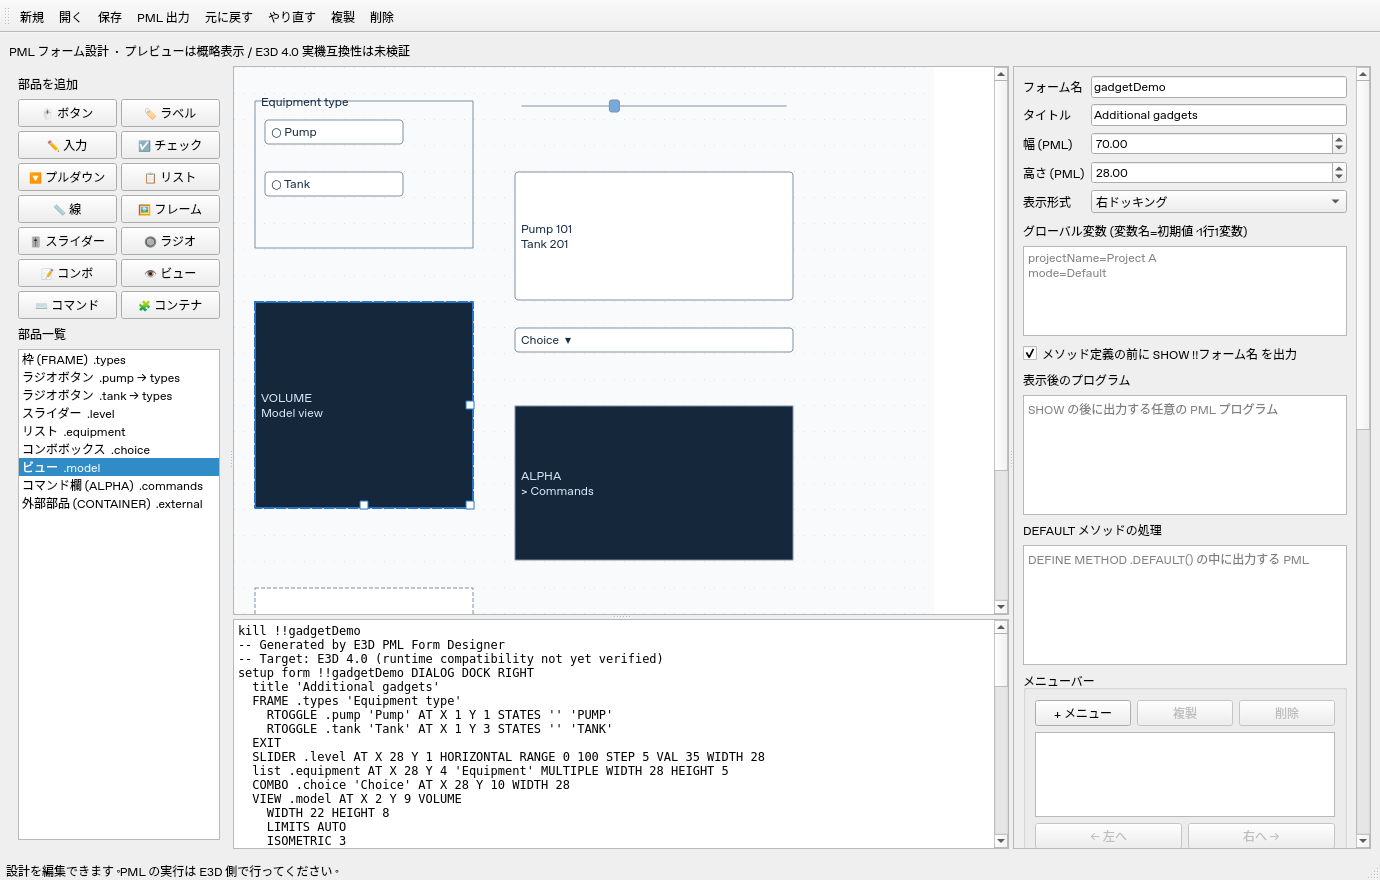
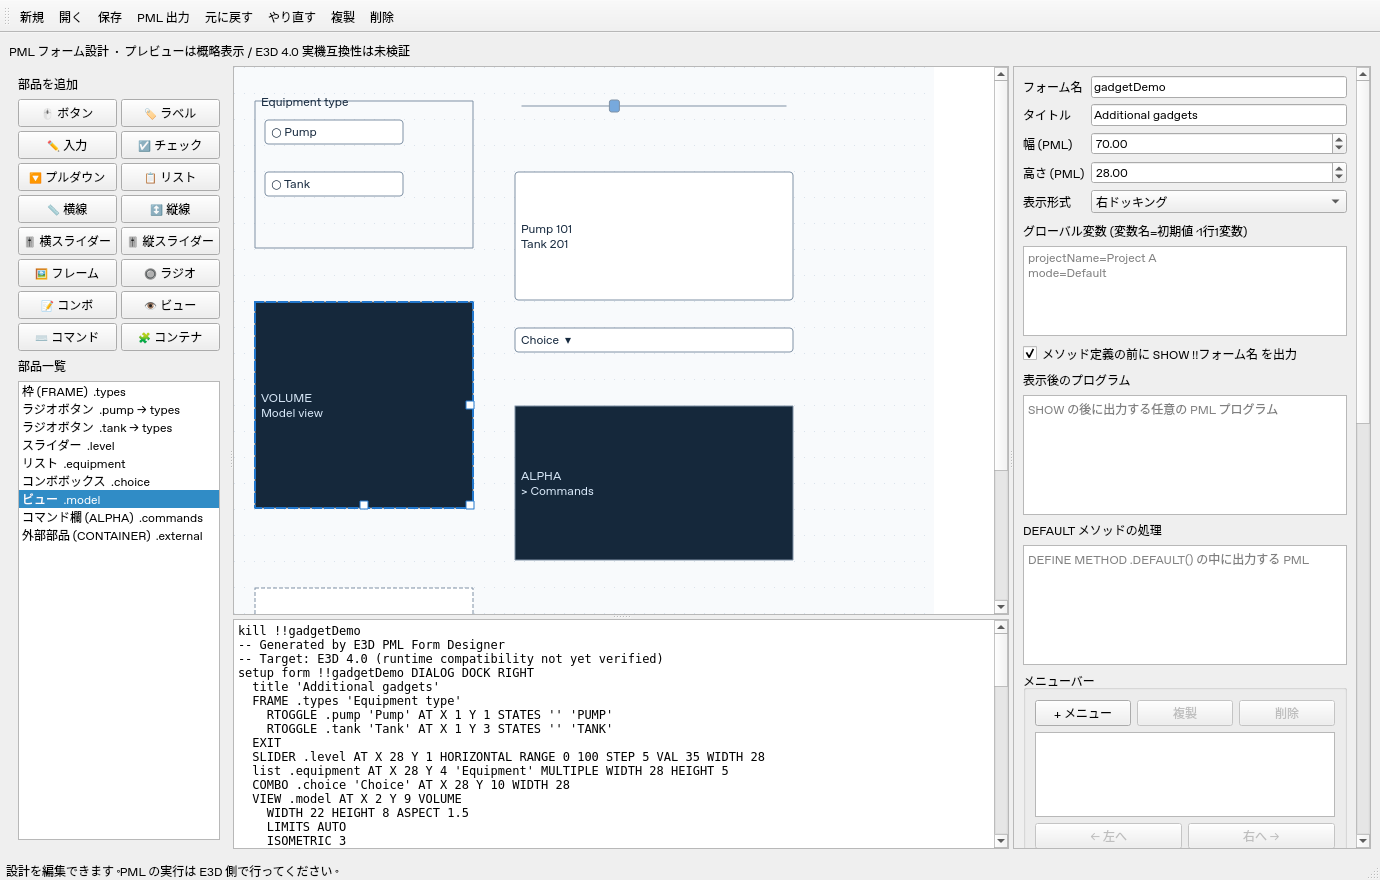
Add separate horizontal and vertical line and slider palette buttons

Changed region(s): [[0.0, 0.2148, 0.1558, 0.6136], [0.2804, 0.9205, 0.3116, 0.9511]]

diff --git a/e3d_designer/app.py b/e3d_designer/app.py
@@ -280,13 +280,21 @@ class Window(QMainWindow):
         palette = QWidget(); palette_layout = QGridLayout(palette)
         palette_layout.setContentsMargins(0,0,0,0); palette_layout.setSpacing(4)
         self.palette_buttons = {}
-        for index,kind in enumerate(KINDS):
-            icon,label = PALETTE[kind]
+        entries = []
+        palette_order = [kind for kind in KINDS if kind != 'frame']
+        palette_order.insert(palette_order.index('rtoggle'),'frame')
+        for kind in palette_order:
+            if kind == 'line':
+                entries += [('line_horiz',kind,'HORIZ','📏','横線'),('line_vert',kind,'VERT','↕','縦線')]
+            elif kind == 'slider':
+                entries += [('slider_horiz',kind,'HORIZONTAL','🎚','横スライダー'),('slider_vert',kind,'VERTICAL','🎚','縦スライダー')]
+            else: entries.append((kind,kind,None,*PALETTE[kind]))
+        for index,(key,kind,direction,icon,label) in enumerate(entries):
             b = QPushButton(f'{icon} {label}'); b.setFixedHeight(28)
             b.setStyleSheet('font-size: 12px; padding: 2px 4px;')
-            b.setToolTip(f'{LABELS[kind]} を追加')
-            b.clicked.connect(lambda checked=False, k=kind: self.add(k))
-            palette_layout.addWidget(b,index//2,index%2); self.palette_buttons[kind] = b
+            b.setToolTip(f'{LABELS[kind]} を追加' + (f' ({direction})' if direction else ''))
+            b.clicked.connect(lambda checked=False, k=kind, d=direction: self.add(k,d))
+            palette_layout.addWidget(b,index//2,index%2); self.palette_buttons[key] = b
         palette_layout.setColumnStretch(0,1); palette_layout.setColumnStretch(1,1)
         ll.addWidget(palette)
         ll.addWidget(QLabel('部品一覧'))
@@ -892,7 +900,7 @@ class Window(QMainWindow):
         from PySide6.QtCore import QTimer
         QTimer.singleShot(0, self.refresh)
 
-    def add(self, kind):
+    def add(self, kind, direction=None):
         container = self.form.gadgets[self.selected] if self.selected is not None else None
         if container and container.kind != 'frame': container = self.form.parent_gadget(container)
         if container and container.frame_style == 'TABSET' and kind != 'frame':
@@ -902,11 +910,14 @@ class Window(QMainWindow):
         self.checkpoint()
         name = self.unique_name(kind)
         width_limit, height_limit = (container.width, container.height) if container else (self.form.width, self.form.height)
-        height = min(5 if kind in ('list', 'frame', 'view', 'commandline', 'container') else 1, height_limit)
+        vertical = (kind == 'line' and direction == 'VERT') or (kind == 'slider' and direction == 'VERTICAL')
+        height = min(5 if vertical or kind in ('list', 'frame', 'view', 'commandline', 'container') else 1, height_limit)
         g = Gadget(kind=kind, name=name, label={'button':'Run','paragraph':'Message','text':'Name','toggle':'Enabled','option':'Mode','list':'Results','line':'','frame':'Group','slider':'Level','rtoggle':'Choice','combo':'Choice','view':'Model view','commandline':'Command line','container':'External control'}[kind],
-                   width=min(18, width_limit), height=height,
+                   width=min((1 if kind == 'line' else 3) if vertical else 18,width_limit), height=height,
                    x=0, y=0 if container else min(len(self.form.gadgets) * 1.5, height_limit-height),
                    parent=container.name if container else '')
+        if kind == 'line' and direction: g.orientation = direction
+        if kind == 'slider' and direction: g.slider_orientation = direction
         if kind in ('option', 'list', 'combo'): g.items = ['Item A', 'Item B']
         self.form.gadgets.append(g); self.selected = len(self.form.gadgets) - 1; self.refresh()
 

diff --git a/tests/test_designer.py b/tests/test_designer.py
@@ -738,6 +738,17 @@ class GuiTests(unittest.TestCase):
         self.w.undo()
         self.assertEqual(self.w.form.gadgets[0].orientation,'HORIZ')
 
+    def test_directional_palette_buttons_create_oriented_gadgets(self):
+        for key,kind,direction in [('line_horiz','line','HORIZ'),('line_vert','line','VERT'),
+                                   ('slider_horiz','slider','HORIZONTAL'),('slider_vert','slider','VERTICAL')]:
+            self.w.selected=None;self.w.refresh()
+            QTest.mouseClick(self.w.palette_buttons[key],Qt.LeftButton)
+            g=self.w.form.gadgets[-1]
+            self.assertEqual(g.kind,kind)
+            self.assertEqual(g.orientation if kind == 'line' else g.slider_orientation,direction)
+            if direction in ('VERT','VERTICAL'): self.assertGreater(g.height,g.width)
+            self.assertIn(direction,self.w.code.toPlainText())
+
     def test_variable_edit_and_invalid_edit_blocks_output(self):
         self.w.variables.setPlainText('projectName=Demo')
         self.assertIn("VAR !!projectName 'Demo'", self.w.code.toPlainText())

diff --git a/README.md b/README.md
@@ -22,7 +22,7 @@ Windowsで `onedir` 形式のEXEを作成するコマンドは、同梱の [EXE_
 
 ## 使い方
 
-追加ボタンは絵文字付きの2列・7行で表示し、縦横のスクロールを使わず全14種類を選べます。ボタンにマウスを重ねると正式な部品名を表示します。
+追加ボタンは絵文字付きの2列・8行で表示し、縦横のスクロールを使わず全16ボタンを選べます。線とスライダーは縦・横の専用ボタンを用意し、追加時に向きも設定します。ボタンにマウスを重ねると正式な部品名を表示します。
 
 1. 左のボタンで部品を追加し、キャンバスをドラッグして配置します。選択した部品の右端・下端・右下のハンドルをドラッグすると、幅・高さ・両方を変更できます。
 2. 右で部品名、表示文字、座標、サイズを変更します。数値は PML レイアウト単位です。
